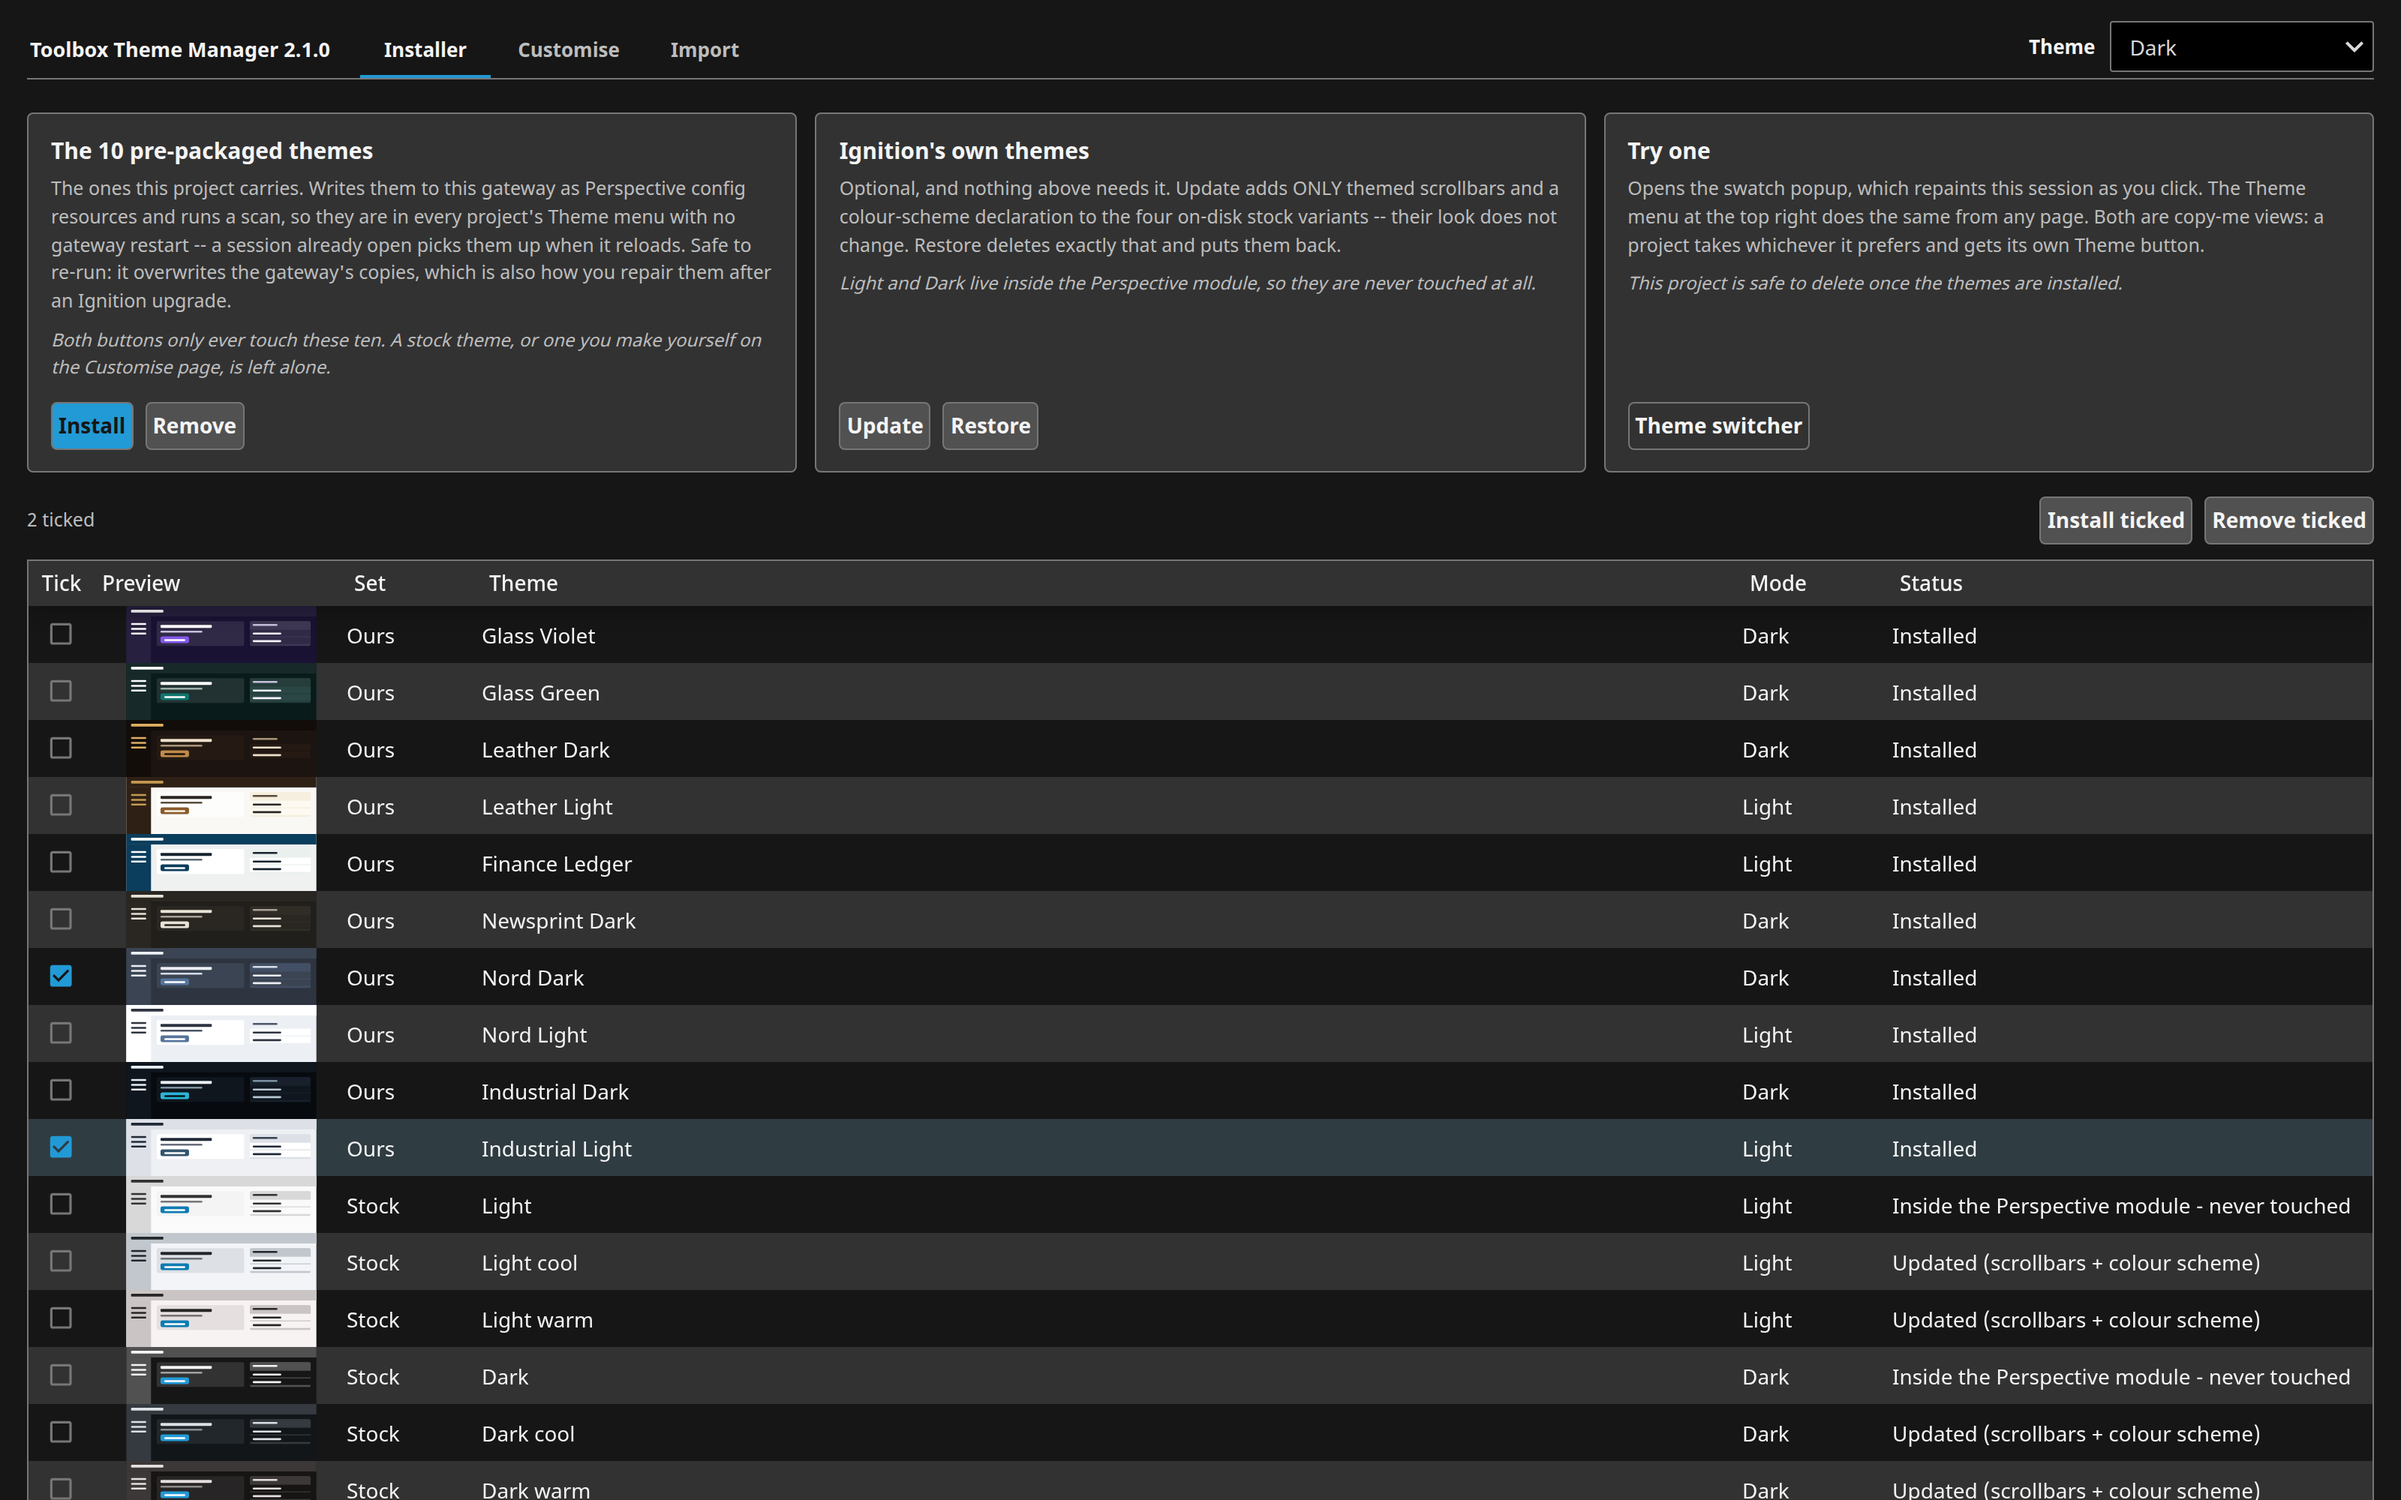
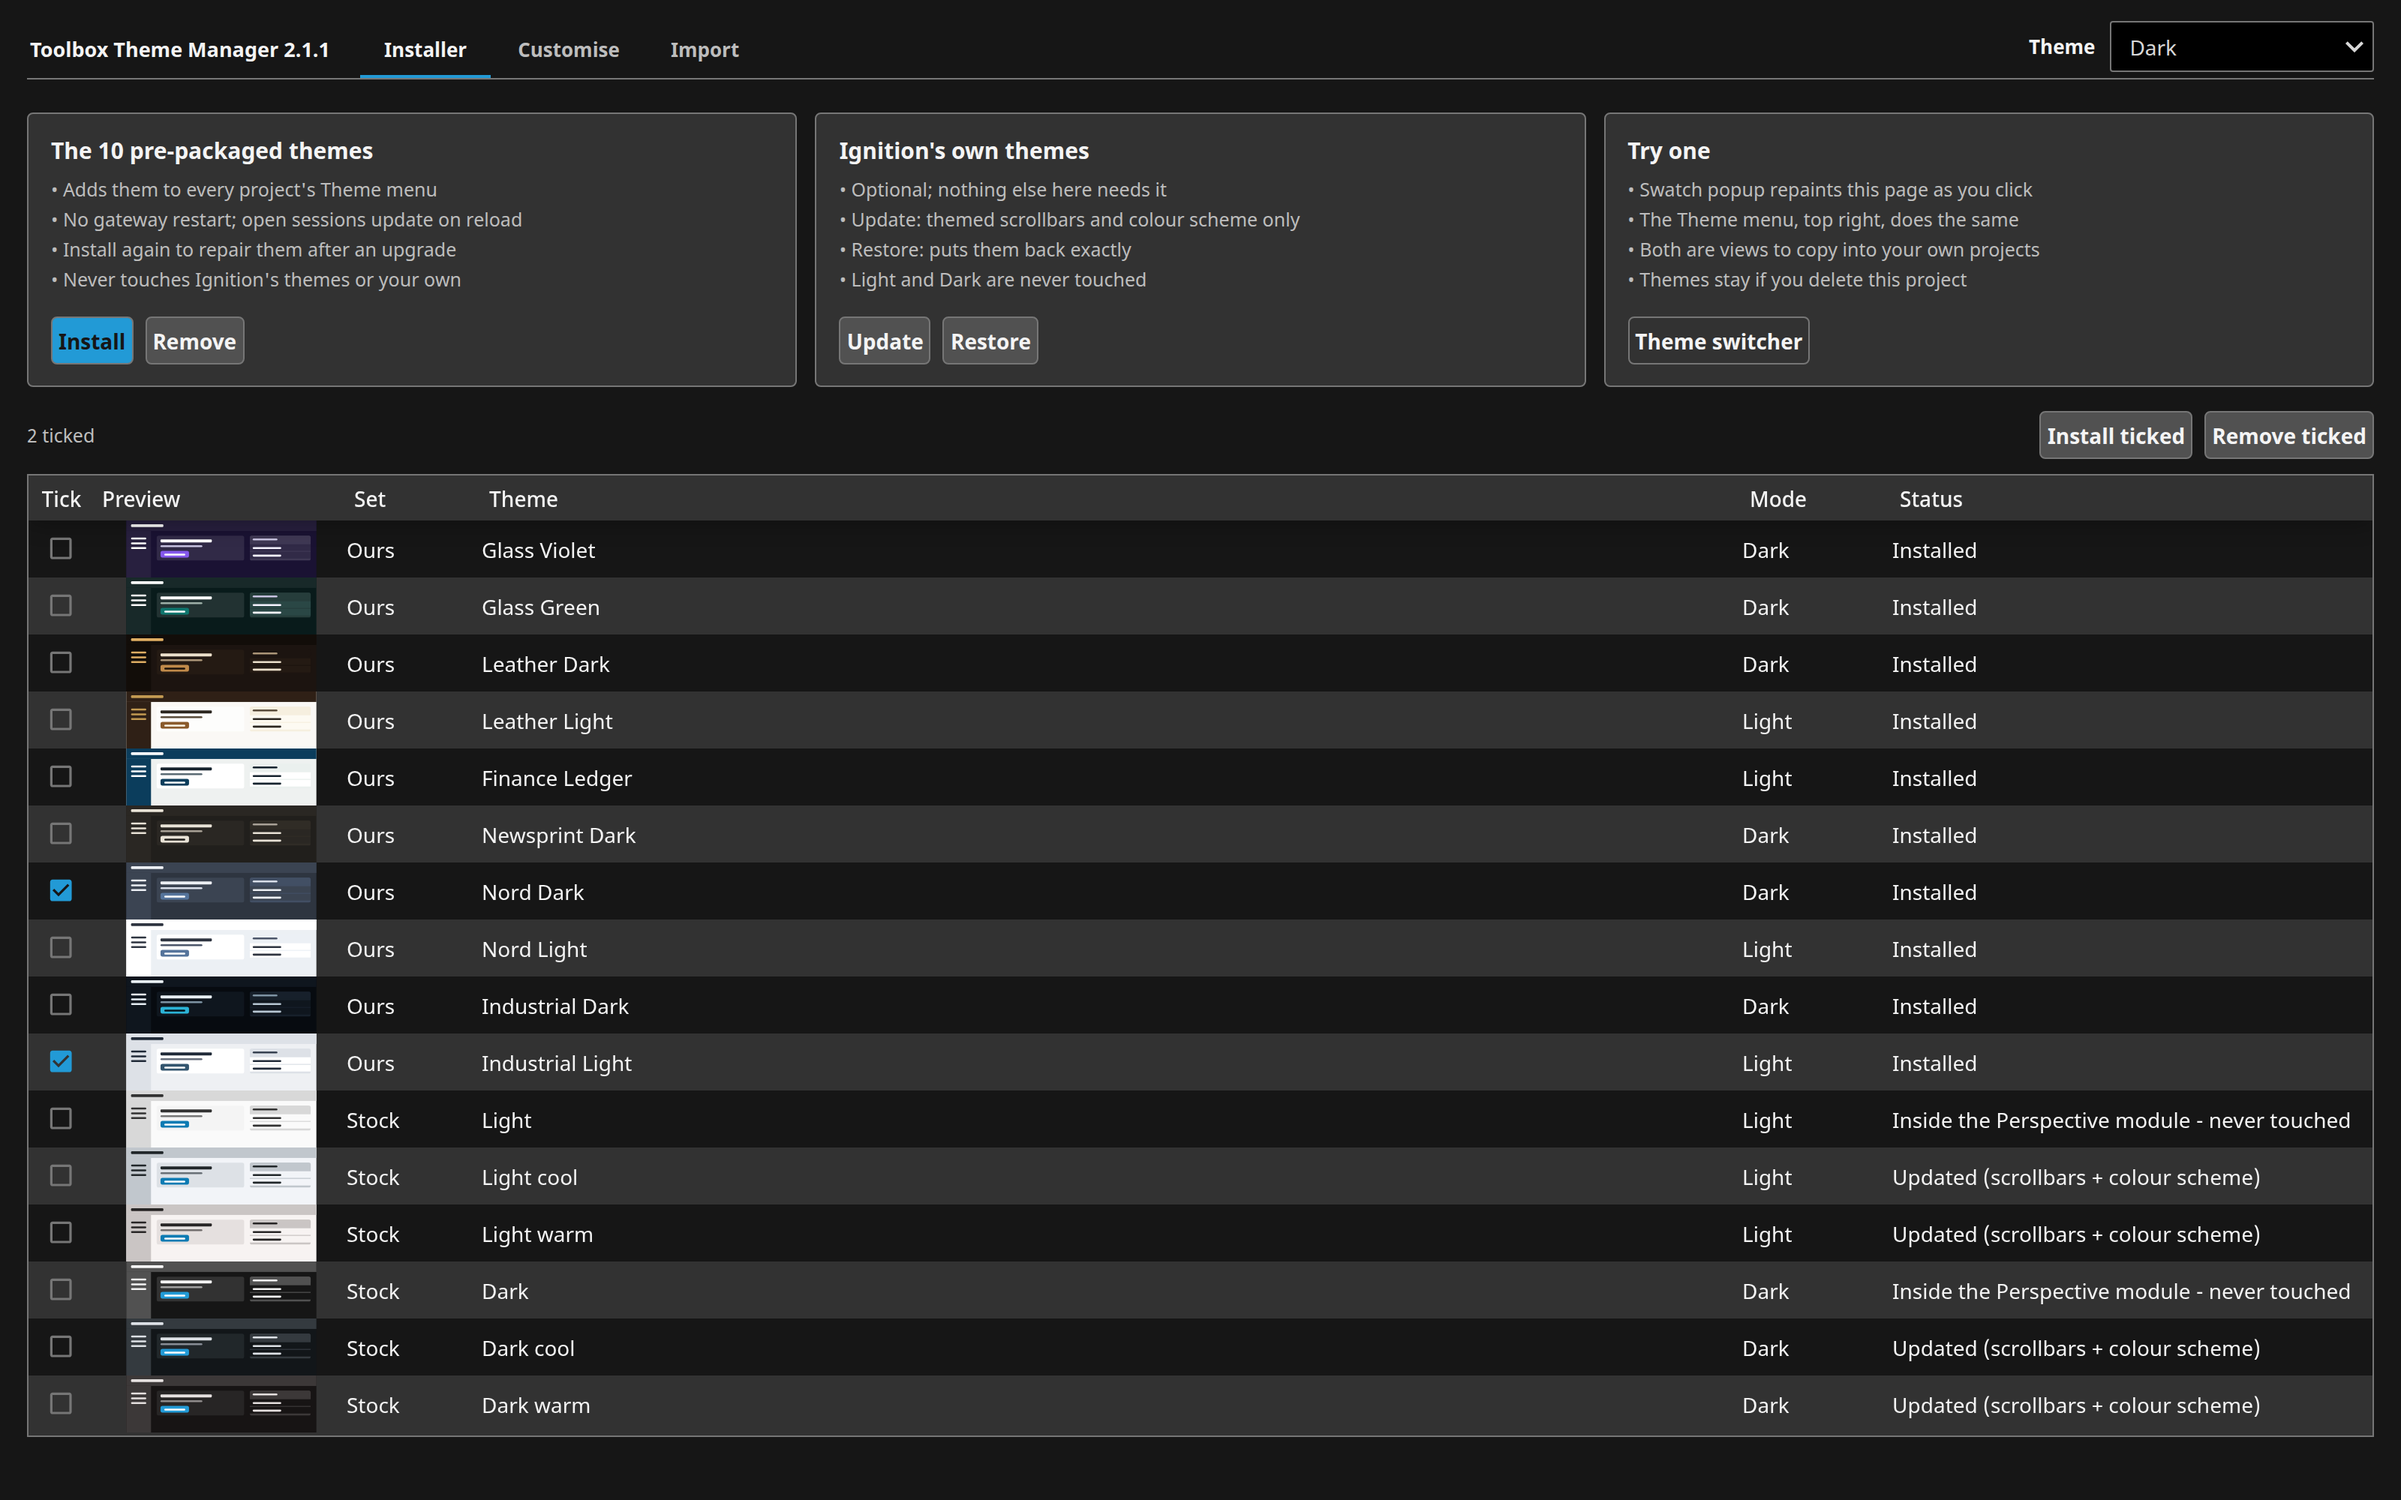
Toolbox Theme Manager 2.1.1: card text as four short bullets each

diff --git a/tools/build_manager.py b/tools/build_manager.py
@@ -1523,10 +1523,12 @@ def _action_card(name, title, body, buttons, note=None):
          "props": {"text": title,
                    "style": {"fontSize": "15px", "fontWeight": 600,
                              "color": "var(--label)"}}},
+        # Short bullets, one line each: the cards are read at a glance.
         {"type": "ia.display.label", "meta": {"name": "body"},
          "position": {"grow": 0, "shrink": 0, "basis": "auto"},
-         "props": {"text": body,
-                   "style": {"fontSize": "12.5px", "lineHeight": "1.5",
+         "props": {"text": "\n".join("\u2022  " + line for line in body),
+                   "style": {"fontSize": "12.5px", "lineHeight": "1.6",
+                             "whiteSpace": "pre-line",
                              "color": "var(--neutral-70)"}}},
     ]
     if note:
@@ -1633,50 +1635,34 @@ def _action_grid(themes):
                  _action_card(
                      "card_custom",
                      "The %d pre-packaged themes" % len(themes),
-                     "The ones this project carries. Writes them to this "
-                     "gateway as Perspective config resources and runs a scan, "
-                     "so they are in every project's Theme menu with no "
-                     "gateway restart -- a session already open picks them up "
-                     "when it reloads. Safe to re-run: it overwrites the "
-                     "gateway's copies, which is also how you repair them "
-                     "after an Ignition upgrade.",
+                     ["Adds them to every project's Theme menu",
+                      "No gateway restart; open sessions update on reload",
+                      "Install again to repair them after an upgrade",
+                      "Never touches Ignition's themes or your own"],
                      [_act_button("install_all_btn", "Install",
                                   scripts["install"], kind="primary"),
                       _act_button("remove_all_btn", "Remove",
-                                  scripts["remove"])],
-                     # Says PRE-PACKAGED, because a theme
-                     # made in the Editor is not one of them and must not read
-                     # as something Remove would take away. install()/
-                     # uninstall() already refuse any id outside THEMES, so
-                     # this is describing the guard, not promising it.
-                     note="Both buttons only ever touch these ten. A stock "
-                          "theme, or one you make yourself on the Customise "
-                          "page, is "
-                          "left alone."),
+                                  scripts["remove"])]),
                  _action_card(
                      "card_stock",
                      "Ignition's own themes",
-                     "Optional, and nothing above needs it. Update adds ONLY "
-                     "themed scrollbars and a colour-scheme declaration to the "
-                     "four on-disk stock variants -- their look does not "
-                     "change. Restore deletes exactly that and puts them back.",
+                     ["Optional; nothing else here needs it",
+                      "Update: themed scrollbars and colour scheme only",
+                      "Restore: puts them back exactly",
+                      "Light and Dark are never touched"],
                      [_act_button("update_stock_btn", "Update",
                                   scripts["update_stock"]),
                       _act_button("restore_stock_btn", "Restore",
-                                  scripts["restore_stock"])],
-                     note="Light and Dark live inside the Perspective module, "
-                          "so they are never touched at all."),
+                                  scripts["restore_stock"])]),
                  _action_card(
                      "card_try",
                      "Try one",
-                     "Opens the swatch popup, which repaints this session as "
-                     "you click. The Theme menu at the top right does the same "
-                     "from any page. Both are copy-me views: a project takes "
-                     "whichever it prefers and gets its own Theme button.",
+                     ["Swatch popup repaints this page as you click",
+                      "The Theme menu, top right, does the same",
+                      "Both are views to copy into your own projects",
+                      "Themes stay if you delete this project"],
                      [_act_button("theme_switcher_btn", "Theme switcher",
-                                  scripts["switcher"], kind="quiet")],
-                     note="This project is safe to delete once the themes are "
-                          "installed."),
+                                  scripts["switcher"], kind="quiet")]),
              ]},
         ],
     }

diff --git a/ignition/script-python/themepack/code.py b/ignition/script-python/themepack/code.py
@@ -6,7 +6,7 @@ GENERATED by tools/build_manager.py from tools/themes/out/
 -- DO NOT EDIT BY HAND. Regenerate with:
     python3 tools/build_manager.py
 
-Version 2.1.0. Gateway scope only -- install()/install_all() write
+Version 2.1.1. Gateway scope only -- install()/install_all() write
 files under <dataDir>/config/resources/core/
 com.inductiveautomation.perspective/themes/<id>/ and request a
 config scan; uninstall()/uninstall_all() go through
